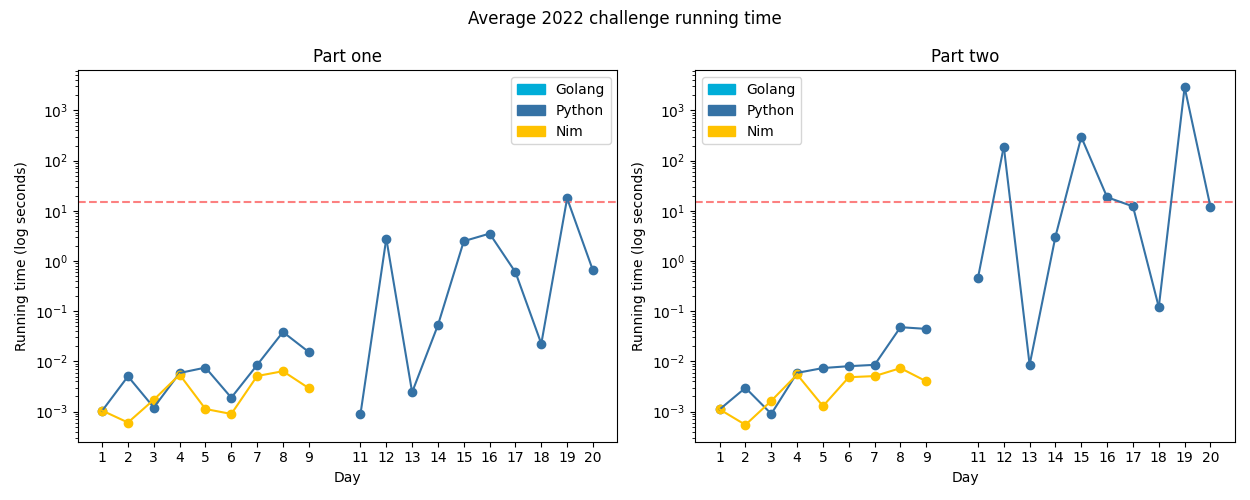
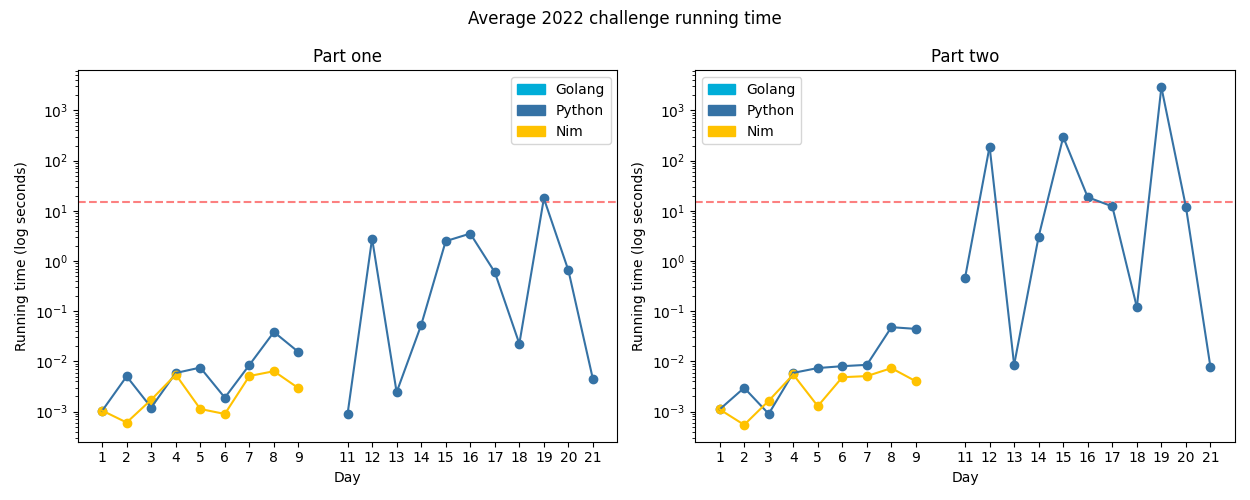
2022-21

diff --git a/challenges/2022/21-monkeyMath/py/__init__.py b/challenges/2022/21-monkeyMath/py/__init__.py
@@ -1,0 +1,146 @@
+from __future__ import annotations
+from typing import *
+from aocpy import BaseChallenge
+from enum import Enum
+import re
+
+
+class Operator(Enum):
+    ADD = "+"
+    SUB = "-"
+    DIV = "/"
+    MULT = "*"
+
+    def inverse(self) -> Operator:
+        if self.value == self.ADD.value:
+            return self.SUB
+        elif self.value == self.SUB.value:
+            return self.ADD
+        elif self.value == self.MULT.value:
+            return self.DIV
+        else:
+            return self.MULT
+
+    def calc(self, a_val, b_val) -> float:
+        res = 0
+        if self.value == self.ADD.value:
+            res = a_val + b_val
+        elif self.value == self.SUB.value:
+            res = a_val - b_val
+        elif self.value == self.MULT.value:
+            res = a_val * b_val
+        elif self.value == self.DIV.value:
+            res = a_val / b_val
+
+        return res
+
+
+Monkey = Union[int, Tuple[str, Operator, str]]
+Monkies = Dict[str, Monkey]
+
+
+number_re = re.compile(r"([a-z]{4}): (\d+)")
+operation_re = re.compile(r"([a-z]{4}): ([a-z]{4}) ([+\-/*]) ([a-z]{4})")
+
+
+def parse(instr: str) -> Monkies:
+    res: Dict[str, Monkey] = {}
+    for line in instr.strip().splitlines():
+        if x := number_re.match(line):
+            name, num_str = x.groups()
+            num = int(num_str)
+            res[name] = num
+        elif x := operation_re.match(line):
+            name, a, op_str, b = x.groups()
+            res[name] = (a, Operator(op_str), b)
+    return res
+
+
+def evaluate_monkey(monkey: Monkey, monkies: Monkies) -> float:
+    if type(monkey) == int:
+        return monkey
+
+    elif type(monkey) == tuple:
+        (a_name, op, b_name) = monkey
+        a_val = evaluate_monkey(monkies[a_name], monkies)
+        b_val = evaluate_monkey(monkies[b_name], monkies)
+        return op.calc(a_val, b_val)
+
+    raise ValueError(f"impossible type {type(monkey)}")
+
+
+def does_branch_contain(target: str, monkey: Monkey, monkies: Monkies) -> bool:
+    if type(monkey) == int:
+        return False
+
+    elif type(monkey) == tuple:
+        (a_name, _, b_name) = monkey
+        if a_name == target or b_name == target:
+            return True
+
+        if does_branch_contain(target, monkies[a_name], monkies):
+            return True
+        return does_branch_contain(target, monkies[b_name], monkies)
+
+    raise ValueError(f"impossible type {type(monkey)}")
+
+
+class Challenge(BaseChallenge):
+    @staticmethod
+    def one(instr: str) -> int:
+        inp = parse(instr)
+        return int(evaluate_monkey(inp["root"], inp))
+
+    @staticmethod
+    def two(instr: str) -> int:
+        inp = parse(instr)
+
+        root = inp["root"]
+        assert type(root) == tuple
+
+        (a_name, _, b_name) = root
+
+        if does_branch_contain("humn", inp[a_name], inp):
+            branch_with_human = inp[a_name]
+            target_value = evaluate_monkey(inp[b_name], inp)
+        elif does_branch_contain("humn", inp[b_name], inp):
+            branch_with_human = inp[b_name]
+            target_value = evaluate_monkey(inp[a_name], inp)
+        else:
+            raise ValueError("neither root branch contains humn")
+
+        acc = target_value
+        cursor = branch_with_human
+        while True:
+            (a_name, op, b_name) = cursor
+
+            if a_name == "humn" or does_branch_contain("humn", inp[a_name], inp):
+                x = evaluate_monkey(inp[b_name], inp)
+                is_first_arg = False
+                cursor = inp[a_name]
+            elif b_name == "humn" or does_branch_contain("humn", inp[b_name], inp):
+                x = evaluate_monkey(inp[a_name], inp)
+                is_first_arg = True
+                cursor = inp[b_name]
+            else:
+                raise ValueError("neither branch contains humn")
+
+            if op == Operator.ADD or op == Operator.MULT:
+                acc = op.inverse().calc(acc, x)
+            elif op == Operator.SUB:
+                if is_first_arg:
+                    acc = op.calc(-acc, -x)
+                else:
+                    acc = op.inverse().calc(acc, x)
+            elif op == Operator.DIV:
+                if is_first_arg:
+                    acc = op.calc(1 / acc, 1 / x)
+                else:
+                    acc = op.inverse().calc(acc, x)
+            else:
+                raise ValueError(f"invalid operator {op}")
+
+            if a_name == "humn" or b_name == "humn":
+                break
+
+        return int(acc)

diff --git a/challenges/2022/13-distressSignal/py/__init__.py b/challenges/2022/13-distressSignal/py/__init__.py
@@ -4,18 +4,21 @@ import json
 from functools import cmp_to_key
 
 
-_Pair = Union[int, List['_Pair']]
+_Pair = Union[int, List["_Pair"]]
 Pair = Tuple[_Pair, _Pair]
+
 
 def parse(instr: str) -> List[Pair]:
     res = []
 
     for raw_pair in instr.strip().split("\n\n"):
         a, b = raw_pair.splitlines()
-        res.append((
-            json.loads(a),
-            json.loads(b),
-        ))
+        res.append(
+            (
+                json.loads(a),
+                json.loads(b),
+            )
+        )
 
     return res
 
@@ -26,7 +29,7 @@ def is_pair_well_ordered(pair: Pair) -> Optional[bool]:
 
     if type_a == int and type_b == list:
         return is_pair_well_ordered(([a], b))
-    
+
     elif type_a == list and type_b == int:
         return is_pair_well_ordered((a, [b]))
 
@@ -34,9 +37,9 @@ def is_pair_well_ordered(pair: Pair) -> Optional[bool]:
         if a == b:
             return None
         return a < b
-        
+
     elif type_a == list and type_b == list:
-    
+
         for x in zip(a, b):
             y = is_pair_well_ordered(x)
             if y is not None:
@@ -47,7 +50,7 @@ def is_pair_well_ordered(pair: Pair) -> Optional[bool]:
         if la == lb:
             return None
         return la < lb
-    
+
     raise ValueError(f"impossible combiation of types ({type_a} and {type_b})")
 
 
@@ -60,7 +63,6 @@ def is_well_ordered(a, b: Any) -> int:
 
 
 class Challenge(BaseChallenge):
-
     @staticmethod
     def one(instr: str) -> int:
         inp = parse(instr)

diff --git a/challenges/2022/README.md b/challenges/2022/README.md
@@ -36,3 +36,4 @@ The red dotted line denotes 15 seconds.
 | 18 - Boiling Boulders               | ★ ★                | [Python](18-boilingBoulders/py/__init__.py) | Finding the surface area of a shape specified by a list of unit cubes. |
 | 19 - Not Enough Minerals            | ★ ★                | [Python](19-notEnoughMinerals/py/__init__.py) | Finding the most effective sequence of operations to complete a specific task. |
 | 20 - Grove Positioning System       | ★ ★                | [Python](20-grovePositioningSystem/py/__init__.py) | My hell is lined with circular sequences. |
+| 21 - Monkey Math                    | ★ ★                | [Python](21-monkeyMath/py/__init__.py) | Trees of math with a fairly satisfying solution :D |

diff --git a/challenges/2022/21-monkeyMath/README.md b/challenges/2022/21-monkeyMath/README.md
@@ -1,0 +1,1 @@
+# [Day 21: Monkey Math](https://adventofcode.com/2022/day/21)
